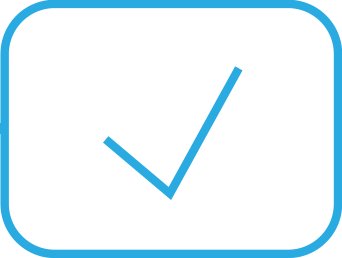
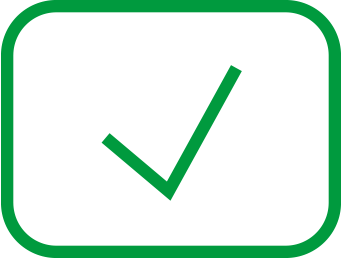
zgf

Changed region(s): [[0.0, 0.0, 1.0, 1.0], [0.2924, 0.2481, 0.7018, 0.7752]]

diff --git a/thinkphp5.1/msy/application/store/view/deploy/register.html b/thinkphp5.1/msy/application/store/view/deploy/register.html
@@ -30,6 +30,9 @@
 							<input type="text" class="factoryFullName" name="" value="{$factoryInfo.name|default=''}" placeholder="机构名称(与营业执照相同)">
 						</div>
 						<div class="apply-items">
+							<input type="text" class="factoryFullName" name="" value="" placeholder="机构简称(选填)">
+						</div>
+						<div class="apply-items">
 							<input type="text" class="agentName" name="" value="{$factoryInfo.agent|default=''}" placeholder="代办人姓名">
 						</div>
 						<div>
@@ -38,13 +41,13 @@
 							(已验证)
 						</div>
 						<a href="javascript:void(0);" class="one-step step">下一步</a>
-						<p class="upload-data-explain f20">申请入驻需要递交机构营业执照（加盖公章）、代办人企业介绍信（含代办人姓名和手机号码信息），请准备好材料提前拍照以备在线上传照片</p>
+						<p class="upload-data-explain f20">申请入驻需要递交机构营业执照（加盖公章）、代办人机构介绍信（含代办人姓名和手机号码信息），请准备好材料提前拍照以备在线上传照片</p>
 					</form>
 				</div>
 				<div class="apply-module hide">
 					<p class="f20 upload_st_logo"><span class="friend-tipc">*注意</span>：必须上传图片(格式为jpg、jpeg、png、gif)</p>
 					<form>
-						<ul class="upload-picture-module f24">
+						<ul class="upload-picture-module store-picture-module f24">
 							<li>
 								<div class="picture-module">
 									<input type="file" class="uploadImg uploadSingleImg" name="">
@@ -83,6 +86,7 @@
 				</div>
 			</div>
 		</div>
+		<a href="" class="joint_instruction">免费入驻及自营联营说明</a>
 	</section>
 </article>
 {/block}

diff --git a/thinkphp5.1/msy/application/store/view/index/index.html b/thinkphp5.1/msy/application/store/view/index/index.html
@@ -45,7 +45,7 @@
 	</section>
 	<section class="module-navigation separation-line ">
 		<div class="columns_flex f20 channel_nav store_organize_nav">
-			<a href="/index.php/factory/Store/index.html" class="deployed-deployment"><span class="union_purchase"></span>入驻部署</a>
+			<a href="/index.php/store/shop/index.html" class="deployed-deployment"><span class="union_purchase"></span>入驻部署</a>
 			<a href="/index.php/factory/Operation/index.html" class="store_run"><span class="exclusive"></span>店长管理</a>
 			<a href="/index.php/factory/Order/index.html" class="order-management"><span class="classify"></span>店铺运营</a>
 			<a href="javascript:void(0);" class="order-management-change"><span class="purchasers"></span>门店订单</a>

diff --git a/thinkphp5.1/msy/application/store/view/public/store_deploy_head.html b/thinkphp5.1/msy/application/store/view/public/store_deploy_head.html
@@ -9,7 +9,7 @@
             <div class="top_bar columns_flex">
                 <a href="javascript:void(0);" class="shopping_cart"></a>
                 <a href="javascript:void(0);" class="personal_center"></a>
-                <a href="" class="home"></a>
+                <a href="/index.php/store/Index/index.html" class="home"></a>
             </div>
             <a class="switch-account">切换美容机构账号></a>
         </div>

diff --git a/thinkphp5.1/msy/public/static/store/css/main.css b/thinkphp5.1/msy/public/static/store/css/main.css
@@ -25,6 +25,19 @@
 .top_nav_store .top_bar a:last-child{
     margin:0 auto;
 }
+.joint_instruction{
+    display:block;
+    width:3rem;
+    padding:.10rem 0;
+    margin:0 auto;
+    color:#39b54a;
+    border:1px solid #39b54a;
+    border-radius:6px;
+    text-align:center;
+}
+.store-picture-module{
+    margin:0.15rem 0 0;
+}
 .manufacturer_nav a span{
     background-image:url(../../factory/img/manufacturer_type.png);
 }

diff --git a/thinkphp5.1/msy/public/static/common/css/public.css b/thinkphp5.1/msy/public/static/common/css/public.css
@@ -1434,7 +1434,7 @@ background-position: 0 -27px;
     -webkit-flex: 1 1 0;
     flex: 1 1 0;
 }
-.page-bd .status .current{color:#0ccaf7;}
+.page-bd .status .current{color:#39b54a;}
 .weui-flex-item span{display:block;height:0.6rem;}
 .weui-flex-item .base_info,
 .weui-flex-item .brand-name{
